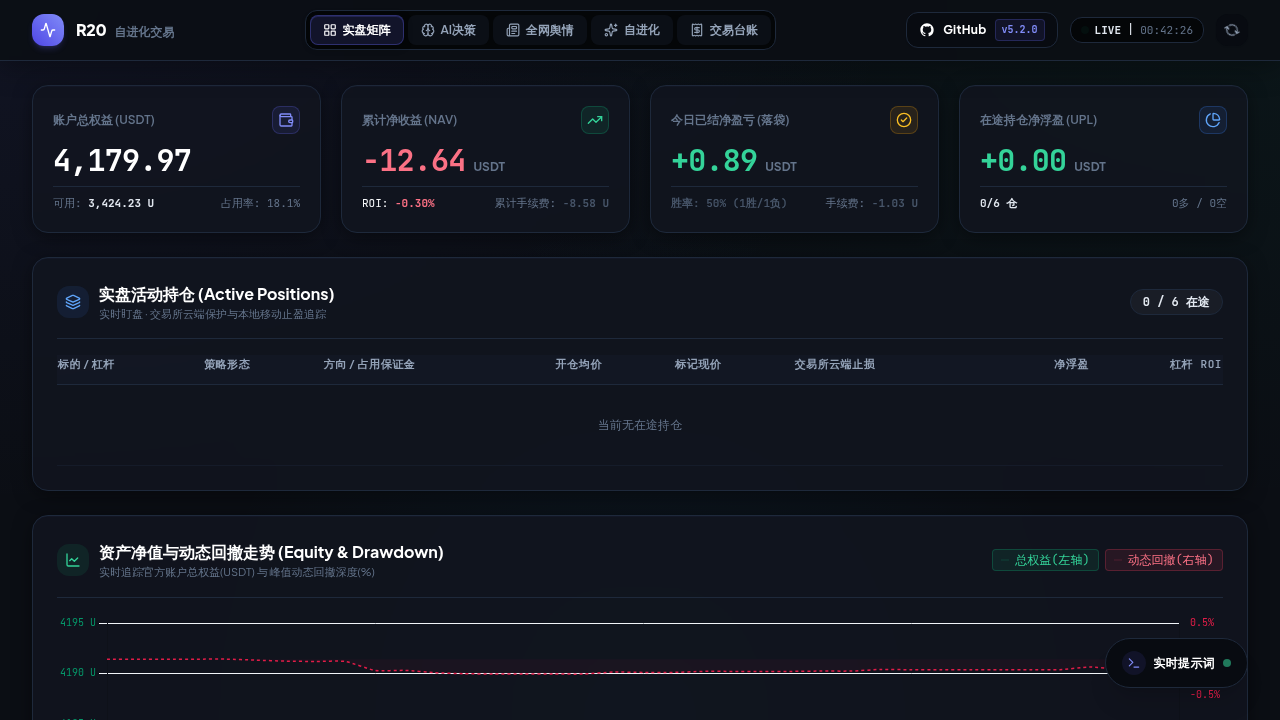
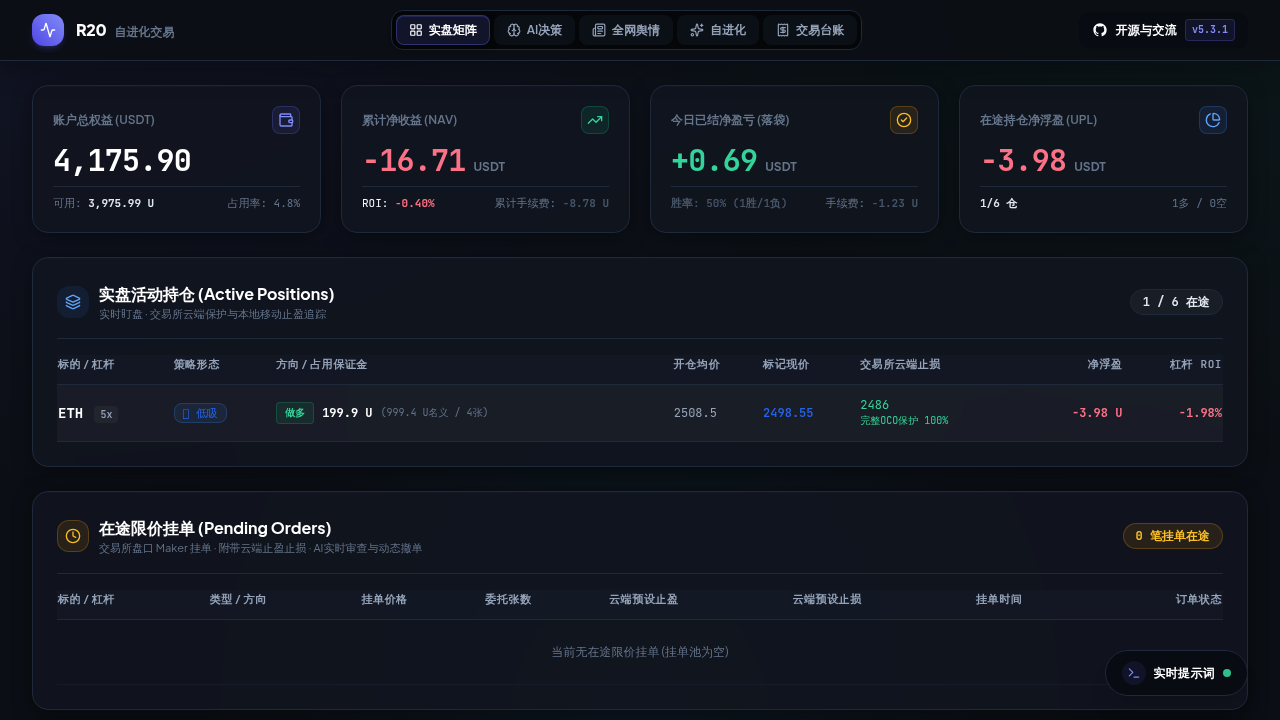
release: v5.3.1 - streamline header actions and add live pending maker orders table

diff --git a/dashboard/templates/index.html b/dashboard/templates/index.html
@@ -431,17 +431,7 @@
                         <path fill-rule="evenodd" clip-rule="evenodd" d="M12 2C6.477 2 2 6.484 2 12.017c0 4.425 2.865 8.18 6.839 9.504.5.092.682-.217.682-.483 0-.237-.008-.868-.013-1.703-2.782.605-3.369-1.343-3.369-1.343-.454-1.158-1.11-1.466-1.11-1.466-.908-.62.069-.608.069-.608 1.003.07 1.53 1.032 1.53 1.032.892 1.53 2.341 1.088 2.91.832.092-.647.35-1.088.636-1.338-2.22-.253-4.555-1.113-4.555-4.951 0-1.093.39-1.988 1.029-2.688-.103-.253-.446-1.272.098-2.65 0 0 .84-.27 2.75 1.026A9.564 9.564 0 0112 6.844c.85.004 1.705.115 2.504.337 1.909-1.296 2.747-1.027 2.747-1.027.546 1.379.202 2.398.1 2.651.64.7 1.028 1.595 1.028 2.688 0 3.848-2.339 4.695-4.566 4.943.359.309.678.92.678 1.855 0 1.338-.012 2.419-.012 2.747 0 .268.18.58.688.482A10.019 10.019 0 0022 12.017C22 6.484 17.522 2 12 2z"/>
                     </svg>
                     <span class="text-xs font-bold text-white tracking-wide">开源与交流</span>
-                    <span class="px-1.5 py-0.5 rounded text-[10px] font-mono font-extrabold bg-indigo-500/20 text-indigo-300 border border-indigo-500/30">v5.3.0</span>
-                </button>
-
-                <div class="flex items-center space-x-1.5 px-2.5 py-1 rounded-xl bg-slate-950/60 border border-slate-800 text-xs font-mono">
-                    <span class="w-2 h-2 rounded-full bg-emerald-500 animate-pulse"></span>
-                    <span class="text-slate-200 font-bold text-[11px]">LIVE</span>
-                    <span class="text-slate-700">|</span>
-                    <span id="last-updated" class="text-slate-400 font-mono text-[11px]">同步中...</span>
-                </div>
-                <button onclick="loadAllData()" class="w-8 h-8 rounded-xl bg-slate-900 border border-slate-800 text-slate-300 hover:text-white hover:border-slate-700 shadow-sm flex items-center justify-center transition active:scale-95 shrink-0" title="刷新数据">
-                    <i data-lucide="refresh-cw" id="refresh-icon" class="w-3.5 h-3.5"></i>
+                    <span class="px-1.5 py-0.5 rounded text-[10px] font-mono font-extrabold bg-indigo-500/20 text-indigo-300 border border-indigo-500/30">v5.3.1</span>
                 </button>
             </div>
         </div>
@@ -576,6 +566,50 @@
                 <!-- Mobile Card List View -->
                 <div id="positions-mobile-list" class="md:hidden space-y-3">
                     <div class="py-8 text-center text-slate-400 text-xs">当前无在途持仓</div>
+                </div>
+            </div>
+
+            <!-- 1.5 在途未成交限价挂单 (Pending Maker Orders) -->
+            <div class="custom-card p-5 sm:p-6">
+                <div class="flex items-center justify-between pb-4 mb-4 border-b border-slate-100">
+                    <div class="flex items-center space-x-2.5">
+                        <div class="w-8 h-8 rounded-xl bg-amber-500/10 border border-amber-500/20 text-amber-400 flex items-center justify-center font-bold">
+                            <i data-lucide="clock" class="w-4 h-4"></i>
+                        </div>
+                        <div>
+                            <h2 class="text-sm sm:text-base font-bold text-slate-900">在途限价挂单 (Pending Orders)</h2>
+                            <p class="text-[11px] text-slate-400">交易所盘口 Maker 挂单 · 附带云端止盈止损 · AI实时审查与动态撤单</p>
+                        </div>
+                    </div>
+                    <span class="px-3 py-1 rounded-full text-xs font-mono font-bold bg-amber-500/10 text-amber-400 border border-amber-500/20">
+                        <span id="pending-orders-count">0</span> 笔挂单在途
+                    </span>
+                </div>
+
+                <!-- Desktop Table View -->
+                <div class="hidden md:block overflow-x-auto custom-scrollbar">
+                    <table class="w-full text-left text-xs">
+                        <thead>
+                            <tr class="border-b border-slate-100 text-slate-400 font-semibold">
+                                <th class="pb-3 whitespace-nowrap">标的 / 杠杆</th>
+                                <th class="pb-3 whitespace-nowrap">类型 / 方向</th>
+                                <th class="pb-3 whitespace-nowrap font-mono">挂单价格</th>
+                                <th class="pb-3 whitespace-nowrap font-mono">委托张数</th>
+                                <th class="pb-3 whitespace-nowrap font-mono">云端预设止盈</th>
+                                <th class="pb-3 whitespace-nowrap font-mono">云端预设止损</th>
+                                <th class="pb-3 whitespace-nowrap font-mono">挂单时间</th>
+                                <th class="pb-3 text-right whitespace-nowrap">订单状态</th>
+                            </tr>
+                        </thead>
+                        <tbody id="pending-orders-tbody" class="divide-y divide-slate-100 font-mono">
+                            <tr><td colspan="8" class="py-6 text-center text-slate-400 font-sans">当前无在途限价挂单</td></tr>
+                        </tbody>
+                    </table>
+                </div>
+
+                <!-- Mobile Card List View -->
+                <div id="pending-orders-mobile-list" class="md:hidden space-y-3">
+                    <div class="py-6 text-center text-slate-400 text-xs bg-slate-950/40 rounded-2xl border border-slate-800">当前无在途限价挂单</div>
                 </div>
             </div>
 
@@ -940,7 +974,7 @@
                     <div>
                         <div class="flex items-center space-x-2">
                             <h3 class="text-base font-extrabold text-white">R20 Quantum Trader</h3>
-                            <span class="px-2 py-0.2 rounded text-[10px] font-mono font-bold bg-indigo-500/20 text-indigo-300 border border-indigo-500/30">v5.3.0</span>
+                            <span class="px-2 py-0.2 rounded text-[10px] font-mono font-bold bg-indigo-500/20 text-indigo-300 border border-indigo-500/30">v5.3.1</span>
                         </div>
                         <p class="text-xs text-slate-400">LLM-Native 启发式自进化量化交易系统</p>
                     </div>
@@ -1539,7 +1573,7 @@
                     if (feesEl) feesEl.innerText = `${data.today_stats.fees_paid || 0} U`;
                 }
 
-                // 3. Positions Summary
+                // 3. Positions Summary & Pending Orders
                 if (data.positions_summary) {
                     const pcEl = document.getElementById('metric-pos-count');
                     if (pcEl) pcEl.innerText = `${data.positions_summary.total || 0}/${data.positions_summary.max_positions || 6} 仓`;
@@ -1549,6 +1583,8 @@
                     if (pdEl) pdEl.innerText = `${data.positions_summary.long_count || 0}多 / ${data.positions_summary.short_count || 0}空`;
                     renderPositions(data.positions_summary.items || []);
                 }
+
+                renderPendingOrders(data.pending_orders || []);
 
                 // 4. Render Components
                 const matrixTimeEl = document.getElementById('brain-matrix-time');
@@ -1818,6 +1854,77 @@
                             <div><span class="text-slate-400">云端止损: </span><span class="${protectionClass}">${stopPrice}</span></div>
                             <div><span class="text-slate-400">策略追踪线: </span><span class="text-slate-500">${strategyStopPrice}</span></div>
                         </div>
+                    </div>
+                `;
+            });
+
+            if (tbody) tbody.innerHTML = desktopHtml;
+            if (mobileList) mobileList.innerHTML = mobileHtml;
+        }
+
+        // Render Pending Maker Orders
+        function renderPendingOrders(orders) {
+            const tbody = document.getElementById('pending-orders-tbody');
+            const mobileList = document.getElementById('pending-orders-mobile-list');
+            const countEl = document.getElementById('pending-orders-count');
+            
+            if (countEl) countEl.innerText = orders ? orders.length : 0;
+
+            if (!orders || orders.length === 0) {
+                if (tbody) tbody.innerHTML = '<tr><td colspan="8" class="py-6 text-center text-slate-400 font-sans">当前无在途限价挂单 (挂单池为空)</td></tr>';
+                if (mobileList) mobileList.innerHTML = '<div class="py-6 text-center text-slate-400 text-xs bg-slate-950/40 rounded-2xl border border-slate-800">当前无在途限价挂单</div>';
+                return;
+            }
+
+            let desktopHtml = '';
+            let mobileHtml = '';
+
+            orders.forEach(o => {
+                const isLong = o.is_long;
+                const sideBadge = isLong 
+                    ? 'bg-emerald-500/10 text-emerald-400 border-emerald-500/20' 
+                    : 'bg-rose-500/10 text-rose-400 border-rose-500/20';
+
+                // Desktop Row
+                desktopHtml += `
+                    <tr class="hover:bg-slate-800/40 transition border-b border-slate-800/60 font-mono">
+                        <td class="py-3 px-3.5 whitespace-nowrap">
+                            <div class="flex items-center space-x-2">
+                                <span class="font-bold text-white text-xs">${o.inst}</span>
+                                <span class="px-1.5 py-0.5 rounded text-[10px] font-semibold bg-slate-800 text-slate-300 border border-slate-700">${o.lever}</span>
+                            </div>
+                        </td>
+                        <td class="py-3 px-3.5 whitespace-nowrap">
+                            <span class="px-2 py-0.5 rounded text-[10px] font-bold border ${sideBadge}">${o.side}</span>
+                        </td>
+                        <td class="py-3 px-3.5 whitespace-nowrap font-bold text-white">${o.px}</td>
+                        <td class="py-3 px-3.5 whitespace-nowrap text-slate-300">${o.sz} 张</td>
+                        <td class="py-3 px-3.5 whitespace-nowrap text-emerald-400">${o.tp_px}</td>
+                        <td class="py-3 px-3.5 whitespace-nowrap text-rose-400">${o.sl_px}</td>
+                        <td class="py-3 px-3.5 whitespace-nowrap text-slate-400 text-[11px]">${o.time}</td>
+                        <td class="py-3 px-3.5 text-right whitespace-nowrap">
+                            <span class="px-2 py-0.5 rounded text-[10px] font-bold bg-amber-500/10 text-amber-400 border border-amber-500/20">盘口排队中</span>
+                        </td>
+                    </tr>
+                `;
+
+                // Mobile Card
+                mobileHtml += `
+                    <div class="p-3.5 rounded-2xl bg-slate-900/60 border border-slate-800 space-y-2.5 font-mono">
+                        <div class="flex items-center justify-between">
+                            <div class="flex items-center space-x-2">
+                                <span class="font-bold text-sm text-white">${o.inst}</span>
+                                <span class="px-2 py-0.5 rounded text-[10px] font-bold border ${sideBadge}">${o.side} ${o.lever}</span>
+                            </div>
+                            <span class="px-2 py-0.5 rounded text-[10px] font-bold bg-amber-500/10 text-amber-400 border border-amber-500/20">挂单中</span>
+                        </div>
+                        <div class="grid grid-cols-2 gap-2 text-xs pt-2 border-t border-slate-800 text-slate-300">
+                            <div><span class="text-slate-500">挂单价: </span><strong class="text-white">${o.px}</strong></div>
+                            <div><span class="text-slate-500">委托量: </span><span>${o.sz} 张</span></div>
+                            <div><span class="text-slate-500">预设止盈: </span><span class="text-emerald-400">${o.tp_px}</span></div>
+                            <div><span class="text-slate-500">预设止损: </span><span class="text-rose-400">${o.sl_px}</span></div>
+                        </div>
+                        <div class="text-[10px] text-slate-500 text-right pt-1">挂单时间: ${o.time}</div>
                     </div>
                 `;
             });

diff --git a/dashboard/app.py b/dashboard/app.py
@@ -181,6 +181,47 @@ def update_cache_cycle():
                 "tp2Hit": t_info.get("tp2_hit", False)
             })
 
+    # 2.5 Fetch OKX Live Pending Maker Orders
+    orders_ok, orders_data, orders_error = run_json_cmd_status("okx --demo swap orders --json")
+    pending_orders_list = []
+    if isinstance(orders_data, list):
+        for o in orders_data:
+            c_ts = int(o.get("cTime", 0) or 0) / 1000.0
+            c_time_str = datetime.datetime.fromtimestamp(c_ts, tz=tz_beijing).strftime("%m-%d %H:%M:%S") if c_ts > 0 else "--"
+            inst_id = o.get("instId", "")
+            inst_clean = inst_id.replace("-USDT-SWAP", "").replace("-SWAP", "")
+            side_raw = str(o.get("side", "")).lower()
+            pos_side = str(o.get("posSide", "")).lower()
+            is_long = (pos_side == "long" or side_raw == "buy")
+            side_label = "限价买多" if is_long else "限价卖空"
+            side_color = "emerald" if is_long else "rose"
+            
+            attach_list = o.get("attachAlgoOrds", [])
+            tp_px = "--"
+            sl_px = "--"
+            if attach_list and len(attach_list) > 0:
+                att = attach_list[0]
+                tp_px = str(att.get("tpTriggerPx") or "--")
+                sl_px = str(att.get("slTriggerPx") or "--")
+
+            pending_orders_list.append({
+                "ordId": str(o.get("ordId", "")),
+                "inst": inst_clean,
+                "instId": inst_id,
+                "side": side_label,
+                "side_raw": side_raw,
+                "posSide": pos_side,
+                "is_long": is_long,
+                "side_color": side_color,
+                "lever": f"{o.get('lever', '3')}x",
+                "px": str(o.get("px", "--")),
+                "sz": str(o.get("sz", "--")),
+                "time": c_time_str,
+                "state": str(o.get("state", "live")),
+                "tp_px": tp_px,
+                "sl_px": sl_px
+            })
+
     # A failed core account query must never overwrite last-known-good data with zeros.
     if not balance_ok or not positions_ok:
         if CACHE_DATA:
@@ -682,6 +723,7 @@ def update_cache_cycle():
             "total_upl": round(total_pos_upl, 2),
             "items": positions
         },
+        "pending_orders": pending_orders_list,
         "factors": factors_list,
         "funding_settlements": {
             "total_funding_pnl": round(today_funding, 4),

diff --git a/README.md b/README.md
@@ -7,7 +7,7 @@
 <br/>
 
 [![Live Demo](https://img.shields.io/badge/🌐_Live_Demo-www.r20.cn-6366F1?style=for-the-badge&logo=googlechrome&logoColor=white)](https://www.r20.cn)
-[![Version: v5.3.0](https://img.shields.io/badge/Version-v5.3.0-8B5CF6?style=for-the-badge&logo=github&logoColor=white)](https://github.com/555cute/r20-quantum-trader/releases)
+[![Version: v5.3.1](https://img.shields.io/badge/Version-v5.3.1-8B5CF6?style=for-the-badge&logo=github&logoColor=white)](https://github.com/555cute/r20-quantum-trader/releases)
 [![License: MIT](https://img.shields.io/badge/License-MIT-10B981?style=for-the-badge&logo=opensourceinitiative&logoColor=white)](https://opensource.org/licenses/MIT)
 [![Python 3.10+](https://img.shields.io/badge/Python-3.10%2B-3776AB?style=for-the-badge&logo=python&logoColor=white)](https://www.python.org/)
 [![FastAPI](https://img.shields.io/badge/Dashboard-FastAPI%20%2B%20Tailwind-009688?style=for-the-badge&logo=fastapi&logoColor=white)](https://fastapi.tiangolo.com)
